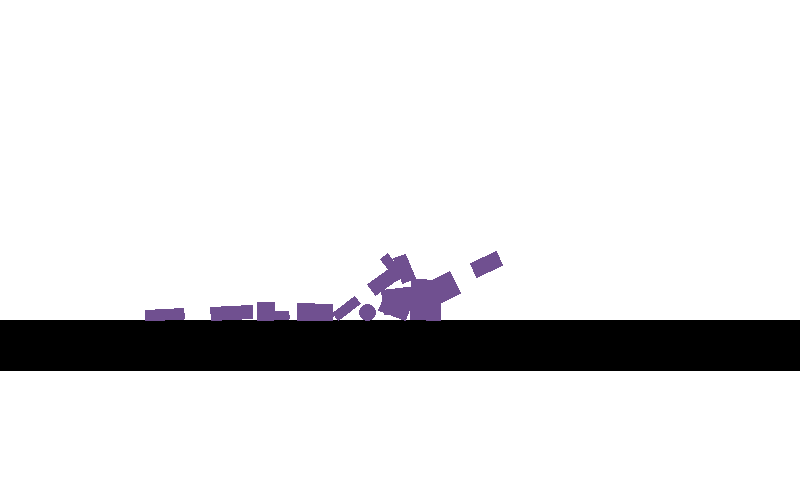
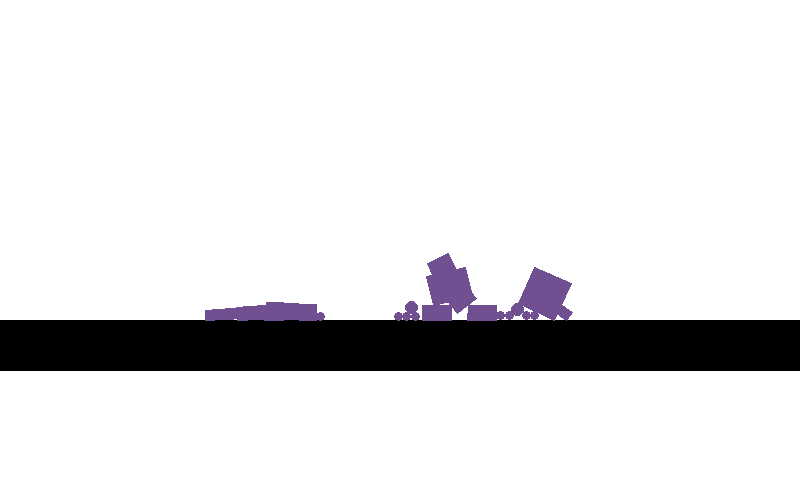
NPC pose angles, hold-pose motors and the real-level NPC layout, checked against the oracle

Changed region(s): [[0.1875, 0.51, 0.7188, 0.66]]

diff --git a/crates/happywheels-core/src/physics.rs b/crates/happywheels-core/src/physics.rs
@@ -2769,7 +2769,7 @@ impl World {
 
     /// NPCharacter (bodies/joints/limits/break limits taken from the original class run in the oracle on a stand-in session, `analysis/npc-dump.js`;
     /// the 12 `charIndex` guides, mirrored for `reverse`). Rotated/translated as a rigid group. Joint breaking follows `checkJoints` (reaction² > limit or anchor gap > .5 m
-    /// destroys the joint and frees the limb's filter). NOT ported: smashes of head/chest/pelvis, chunks, blood, `holdPose`/pose angles, impulse/wake triggers, sounds, sprites.
+    /// destroys the joint and frees the limb's filter). Pose angles and the old-level `holdPose` motors are ported (`analysis/npc-pose.js`). NOT ported here: impulse/wake/hold-pose triggers, sounds, sprites.
     fn npc(&mut self, sp: &crate::level::Special) -> Option<BodyId> {
         if sp.flag("interactive") == Some(false) {
             return None;
@@ -2797,12 +2797,72 @@ impl World {
         let group = self.npc_groups;
         self.npc_groups -= 2;
         let sleeping = sp.flag("sleeping").unwrap_or(false);
+        // Pose angles (`neckAngle` … `knee2Angle`, degrees): the level's NPC sprite parts are rotated about their joint anchors before the bodies are made
+        // (checked against the real parser: values are clamped to the joint's own range, `reverse` negates the clamped value, a shoulder/hip turns the
+        // whole limb, an elbow/knee only the lower part, and each joint's limits are shifted by the change of its relative angle).
+        let reverse = sp.flag("reverse").unwrap_or(false);
+        let pose = |name: &str, lo: f64, hi: f64| -> f64 {
+            let v = f64::from(sp.num(name).unwrap_or(0.0)).clamp(lo, hi);
+            (if reverse { -v } else { v }).to_radians()
+        };
+        let (d_neck, d_sh, d_el, d_hip, d_knee) = (
+            pose("neckAngle", -20.0, 20.0),
+            [pose("shoulder1Angle", -180.0, 60.0), pose("shoulder2Angle", -180.0, 60.0)],
+            [pose("elbow1Angle", -160.0, 0.0), pose("elbow2Angle", -160.0, 0.0)],
+            [pose("hip1Angle", -150.0, 10.0), pose("hip2Angle", -150.0, 10.0)],
+            [pose("knee1Angle", 0.0, 150.0), pose("knee2Angle", 0.0, 150.0)],
+        );
+        let mut lpos = [Vec2::default(); 11];
+        let mut lang = [0.0f64; 11];
+        for (i, n) in NAMES.iter().enumerate() {
+            lpos[i] = Vec2::new(f(&g["bodies"][n]["p"][0]) * 0.5, f(&g["bodies"][n]["p"][1]) * 0.5);
+            lang[i] = f(&g["bodies"][n]["a"]);
+        }
+        let mut turn = |joint: &str, parent: usize, group: &[usize], d: f64| {
+            if d == 0.0 {
+                return;
+            }
+            let a1 = &g["joints"][joint]["a1"];
+            let (c, s) = (lang[parent].cos(), lang[parent].sin());
+            // the sprite part turns about the joint anchor (guide anchors/offsets are the stand-in session's, twice the size of a level NPC's: measured with `analysis/npc-pivots.js`)
+            let (ax, ay) = (f(&a1[0]) * 0.5, f(&a1[1]) * 0.5);
+            let anchor = Vec2::new(lpos[parent].x + c * ax - s * ay, lpos[parent].y + s * ax + c * ay);
+            let (dc, ds) = (d.cos(), d.sin());
+            for &i in group {
+                let (rx, ry) = (lpos[i].x - anchor.x, lpos[i].y - anchor.y);
+                lpos[i] = Vec2::new(anchor.x + dc * rx - ds * ry, anchor.y + ds * rx + dc * ry);
+                lang[i] += d;
+            }
+        };
+        turn("neck", 0, &[1], d_neck);
+        turn("shoulder1", 0, &[3, 5], d_sh[0]);
+        turn("shoulder2", 0, &[4, 6], d_sh[1]);
+        turn("elbow1", 3, &[5], d_el[0]);
+        turn("elbow2", 4, &[6], d_el[1]);
+        turn("hip1", 2, &[7, 9], d_hip[0]);
+        turn("hip2", 2, &[8, 10], d_hip[1]);
+        turn("knee1", 7, &[9], d_knee[0]);
+        turn("knee2", 8, &[10], d_knee[1]);
+        let joint_shift = |name: &str| -> f64 {
+            match name {
+                "neck" => d_neck,
+                "shoulder1" => d_sh[0],
+                "shoulder2" => d_sh[1],
+                "elbow1" => d_el[0],
+                "elbow2" => d_el[1],
+                "hip1" => d_hip[0],
+                "hip2" => d_hip[1],
+                "knee1" => d_knee[0],
+                "knee2" => d_knee[1],
+                _ => 0.0,
+            }
+        };
         let mut bodies = [0usize; 11];
         for (i, n) in NAMES.iter().enumerate() {
             let b = &g["bodies"][n];
-            let (px, py) = (f(&b["p"][0]), f(&b["p"][1]));
+            let (px, py) = (lpos[i].x, lpos[i].y);
             let pos = Vec2::new(x / PS + cs * px - sn * py, y / PS + sn * px + cs * py);
-            let body = self.b.create_body(&BodyDef { position: pos, angle: f(&b["a"]) + rot, is_sleeping: sleeping, allow_sleep: true, ..Default::default() });
+            let body = self.b.create_body(&BodyDef { position: pos, angle: lang[i] + rot, is_sleeping: sleeping, allow_sleep: true, ..Default::default() });
             let geo = if b["g"].get("r").is_some() { Geometry::Circle { local_position: Vec2::default(), radius: f(&b["g"]["r"]) } } else { ShapeDef::boxed(f(&b["g"]["hx"]), f(&b["g"]["hy"])).geometry };
             let mut sd = ShapeDef::new(geo);
             sd.density = 1.0;
@@ -2817,12 +2877,16 @@ impl World {
         let mut joints = Vec::new();
         for (name, parent, child, limit) in JOINTS {
             let j = &g["joints"][name];
-            let anchor = self.b.body(bodies[parent]).world_point(Vec2::new(f(&j["a1"][0]), f(&j["a1"][1])));
+            let anchor = self.b.body(bodies[parent]).world_point(Vec2::new(f(&j["a1"][0]) * 0.5, f(&j["a1"][1]) * 0.5));
             let mut d = RevoluteJointDef::initialize(self.b.body(bodies[parent]), bodies[parent], self.b.body(bodies[child]), bodies[child], anchor);
             d.enable_limit = true;
-            d.lower_angle = f(&j["lo"]);
-            d.upper_angle = f(&j["hi"]);
+            d.lower_angle = f(&j["lo"]) - joint_shift(name);
+            d.upper_angle = f(&j["hi"]) - joint_shift(name);
             d.max_motor_torque = 4.0;
+            if sp.flag("holdPose").unwrap_or(false) && self.level_version < 1.75 {
+                d.enable_motor = true;
+                d.motor_speed = 0.0;
+            }
             let id = self.b.create_revolute_joint(&d);
             joints.push((id, child, f(&g["limits"][limit]), false));
         }
@@ -2951,6 +3015,13 @@ impl World {
     }
 
     /// `grindShape` on an NPC: a mower took its head / chest / pelvis, so the shape's Result listener is deleted and it can no longer smash.
+    /// Gives every NPC body the linear velocity `v` (m/s) — the oracle scenarios slam NPCs into the floor this way.
+    pub fn npc_set_velocity(&mut self, v: [f64; 2]) {
+        for b in self.npc_main_bodies() {
+            self.b.body_mut(b).linear_velocity = Vec2::new(v[0], v[1]);
+        }
+    }
+
     pub fn npc_grind(&mut self, body: BodyId) {
         for n in &mut self.npcs {
             for (part, idx) in [(0, 1), (1, 0), (2, 2)] {
@@ -6237,7 +6308,7 @@ mod tests {
     /// `grindShape` on an NPC deletes its smash listeners: slammed into the floor at 60 m/s it breaks into pieces, but a ground one stays whole.
     #[test]
     fn ground_npc_parts_do_not_smash() {
-        let xml = "<levelXML><info v='1.99'/><shapes><sh t='0' p0='1000' p1='600' p2='3000' p3='50' p4='0' p5='t' p6='f' p7='1' p8='0' p9='-1' p10='100' p11='1'/></shapes><specials><sp t='17' p0='1000' p1='400' p2='0' p3='1' p4='f' p5='f'/></specials></levelXML>";
+        let xml = "<levelXML><info v='1.99'/><shapes><sh t='0' p0='1000' p1='725' p2='4000' p3='50' p4='0' p5='t' p6='f' p7='1' p8='0' p9='-1' p10='100' p11='1'/></shapes><specials><sp t='17' p0='1000' p1='300' p2='0' p3='1' p4='f' p5='f' p6='f' p7='t'/></specials></levelXML>";
         let run = |grind: bool| {
             let mut w = World::from_level(&crate::level::parse(xml).unwrap());
             if grind {
@@ -7113,11 +7184,11 @@ mod tests {
     fn npc_free_fall_matches_original() {
         let gold: serde_json::Value = serde_json::from_str(include_str!("../../../tests/golden/npc_fall.json")).unwrap();
         for (key, idx, rev) in [("1", 1, 'f'), ("5", 5, 'f'), ("1r", 1, 't'), ("5r", 5, 't')] {
-            let lvl = crate::level::parse(&format!("<levelXML><info v='1.99'/><shapes/><specials><sp t='17' p0='1000' p1='0' p2='0' p3='{idx}' p4='f' p5='{rev}' p6='f' p7='t'/></specials></levelXML>")).unwrap();
+            let lvl = crate::level::parse(&format!("<levelXML><info v='1.99'/><shapes><sh t='0' p0='1000' p1='725' p2='4000' p3='50' p4='0' p5='t' p6='f' p7='1' p8='0' p9='-1' p10='100' p11='1'/></shapes><specials><sp t='17' p0='1000' p1='300' p2='0' p3='{idx}' p4='f' p5='{rev}' p6='f' p7='t'/></specials></levelXML>")).unwrap();
             let mut w = World::from_level(&lvl);
             assert_eq!(w.npcs.len(), 1, "npc {key} not created");
             let mut worst = 0.0f64;
-            for f in 0..60 {
+            for f in 0..30 {
                 w.step();
                 if f % 10 == 9 {
                     let row = &gold[key][f / 10];
@@ -7125,12 +7196,51 @@ mod tests {
                         let body = w.b.body(b);
                         let g = &row[i];
                         let (gx, gy) = (g[0].as_f64().unwrap() + 1000.0, g[1].as_f64().unwrap());
-                        worst = worst.max((body.sweep.c.x * PS - gx).abs()).max((body.sweep.c.y * PS - gy).abs());
+                        let e = (body.sweep.c.x * PS - gx).abs().max((body.sweep.c.y * PS - gy).abs()); worst = worst.max(e);
                     }
                 }
             }
             assert!(worst < 1e-6, "npc {key}: worst divergence {worst} px");
         }
+    }
+
+    #[test]
+    fn npc_pose_angles_match_original() {
+        let gold: serde_json::Value = serde_json::from_str(include_str!("../../../tests/golden/npc_pose.json")).unwrap();
+        for case in gold.as_array().unwrap() {
+            let names = ["neck", "shoulder1", "shoulder2", "elbow1", "elbow2", "hip1", "hip2", "knee1", "knee2"];
+            let mut attrs = String::new();
+            for (i, n) in names.iter().enumerate() {
+                attrs += &format!(" p{}='{}'", 8 + i, case["p"].get(n).and_then(|v| v.as_f64()).unwrap_or(0.0));
+            }
+            let tf = |k: &str| if case[k].as_bool().unwrap() { 't' } else { 'f' };
+            let xml = format!("<levelXML><info v='1.99'/><shapes><sh t='0' p0='1000' p1='725' p2='4000' p3='50' p4='0' p5='t' p6='f' p7='1' p8='0' p9='-1' p10='100' p11='1'/></shapes><specials><sp t='17' p0='1000' p1='300' p2='0' p3='{}' p4='f' p5='{}' p6='{}' p7='t'{attrs}/></specials></levelXML>", case["char"], tf("reverse"), tf("hold"));
+            let mut w = World::from_level(&crate::level::parse(&xml).unwrap());
+            let check = |w: &World, key: &str, tol: f64| {
+                for (i, &b) in w.npcs[0].bodies.iter().enumerate() {
+                    let g = &case[key][i];
+                    let body = w.b.body(b);
+                    let (gx, gy, ga) = (g[0].as_f64().unwrap(), g[1].as_f64().unwrap(), g[2].as_f64().unwrap());
+                    let err = (body.sweep.c.x * PS - gx).abs().max((body.sweep.c.y * PS - gy).abs()).max((body.sweep.a - ga).abs() * 100.0);
+                    assert!(err < tol, "{key} body {i} off by {err}: port ({}, {}, {}) gold ({gx}, {gy}, {ga})", body.sweep.c.x * PS, body.sweep.c.y * PS, body.sweep.a);
+                }
+            };
+            check(&w, "start", 1e-6);
+            for _ in 0..30 { w.step(); }
+            check(&w, "after", 1e-3);
+        }
+    }
+
+    #[test]
+    fn npc_slammed_into_the_floor_breaks_like_the_original() {
+        // oracle (`analysis/npc-pose.js`, vel 60, level actions on): 38 -> 42 dynamic bodies after 60 frames
+        let xml = "<levelXML><info v='1.99'/><shapes><sh t='0' p0='1000' p1='725' p2='4000' p3='50' p4='0' p5='t' p6='f' p7='1' p8='0' p9='-1' p10='100' p11='1'/></shapes><specials><sp t='17' p0='1000' p1='300' p2='0' p3='1' p4='f' p5='f' p6='f' p7='t'/></specials></levelXML>";
+        let mut w = World::from_level(&crate::level::parse(xml).unwrap());
+        let count = |w: &World| w.b.c.bodies.iter().filter(|b| b.alive && b.mass > 0.0).count();
+        let before = count(&w);
+        for b in w.npc_main_bodies() { w.b.body_mut(b).linear_velocity = Vec2::new(0.0, 60.0); }
+        for _ in 0..60 { w.step(); }
+        assert_eq!(count(&w) - before, 4, "the original ends with four extra bodies");
     }
 
     #[test]

diff --git a/crates/happywheels-core/tests/golden.rs b/crates/happywheels-core/tests/golden.rs
@@ -1749,7 +1749,7 @@ fn dump_break_screenshots() {
     shot(&w, "break_family_dad_frame");
 }
 
-/// NPC smashes (behaviour only): an NPC dropped from 85 m loses head / chest / pelvis to chunk circles (sounds HeadSmash/ChestSmash/PelvisSmash),
+/// NPC smashes (behaviour only): an NPC slammed into the floor at 60 m/s loses head / chest / pelvis to chunk circles (sounds HeadSmash/ChestSmash/PelvisSmash),
 /// the simulation stays finite, and `screenshots/npc_smash.png` shows the pile.
 #[test]
 fn npc_dropped_from_height_smashes_into_chunks() {
@@ -1758,10 +1758,12 @@ fn npc_dropped_from_height_smashes_into_chunks() {
     let level = level::parse(
         "<levelXML><info v='1.99' x='1000' y='-5000'/><shapes>\
          <sh t='0' p0='1000' p1='425' p2='2000' p3='50' p4='0' p5='t' p6='f' p7='1' p8='0' p9='-1' p10='100' p11='1'/></shapes>\
-         <specials><sp t='17' p0='900' p1='-5000' p2='90' p3='1' p4='f' p5='f' p6='f' p7='t'/><sp t='17' p0='1100' p1='-5000' p2='180' p3='5' p4='f' p5='t' p6='f' p7='t'/></specials></levelXML>",
+         <specials><sp t='17' p0='900' p1='100' p2='90' p3='1' p4='f' p5='f' p6='f' p7='t'/><sp t='17' p0='1100' p1='100' p2='180' p3='5' p4='f' p5='t' p6='f' p7='t'/></specials></levelXML>",
     )
     .unwrap();
     let mut w = World::from_level(&level);
+    // the original does not smash a plain free fall from 85 m (checked in the oracle); a 60 m/s slam does
+    w.npc_set_velocity([0.0, 60.0]);
     let mut heard = std::collections::HashSet::new();
     for _ in 0..500 {
         w.step();
@@ -1771,6 +1773,25 @@ fn npc_dropped_from_height_smashes_into_chunks() {
     }
     assert!(heard.iter().any(|n| n.ends_with("Smash")), "nothing smashed: {heard:?}");
     happywheels_core::render::render_level_at(&level, &w, 800, 500, [1000.0, 330.0]).save(format!("{dir}/npc_smash.png")).unwrap();
+}
+
+/// NPC pose angles (`shoulder1Angle` … `knee2Angle`): three NPCs hung in the air (sleeping) with different poses, `screenshots/npc_poses.png`.
+#[test]
+fn npc_poses_screenshot() {
+    let dir = std::env::var("HW_SHOTS").unwrap_or_else(|_| format!("{}/../../screenshots", env!("CARGO_MANIFEST_DIR")));
+    std::fs::create_dir_all(&dir).unwrap();
+    let level = level::parse(
+        "<levelXML><info v='1.99' x='1000' y='250'/><shapes>\
+         <sh t='0' p0='1000' p1='425' p2='2000' p3='50' p4='0' p5='t' p6='f' p7='1' p8='0' p9='-1' p10='100' p11='1'/></shapes>\
+         <specials>\
+         <sp t='17' p0='900' p1='280' p2='0' p3='1' p4='t' p5='f' p6='f' p7='t' p8='0' p9='0' p10='0' p11='0' p12='0' p13='0' p14='0' p15='0' p16='0'/>\
+         <sp t='17' p0='1000' p1='280' p2='0' p3='1' p4='t' p5='f' p6='f' p7='t' p8='10' p9='-90' p10='-150' p11='-60' p12='-100' p13='-80' p14='-20' p15='90' p16='40'/>\
+         <sp t='17' p0='1100' p1='280' p2='0' p3='5' p4='t' p5='t' p6='f' p7='t' p8='-15' p9='30' p10='-120' p11='-20' p12='-140' p13='-100' p14='0' p15='20' p16='120'/>\
+         </specials></levelXML>",
+    )
+    .unwrap();
+    let w = World::from_level(&level);
+    happywheels_core::render::render_level_at(&level, &w, 800, 500, [1000.0, 330.0]).save(format!("{dir}/npc_poses.png")).unwrap();
 }
 
 /// TrashCan spill / crush (behaviour only): a can dropped 13 m spills into a hollow can + 10 trash bodies, one dropped from 80 m is crushed, an

diff --git a/docs/PORT.md b/docs/PORT.md
@@ -771,3 +771,10 @@ HOMING MINE AUDIO: the mine requests `MineHover` and `HomingMineFind` when it ha
 - 2026-11-25 — Grinder (char 7) real session: 14 bodies agree to ≤9e-5 px for frames 0–121, then the same coin-flip as chair/segway: `drive(down)` sets the wheel motor to 0 at frame 120 and at frame 121 the wheel's joint speed is ±1e-15, so `speed > 0` picks `0` or `−ACCEL`; the runs separate (0.5 px at 122) and one `Thud2` lands at 152 instead of 153. Common root cause of the chair/segway/grinder tails: those vehicle frames are single bodies created at the world origin with shapes ~1000 px away, so a ~1e-10 relative difference in the initial centre of mass/inertia (already 7e-8 px on the frame body after step 0, ≤4e-9 px on the rider) is amplified by the lever arm and by the motor-at-zero sign test. Making it bit-exact would need the original's exact float evaluation order for mass data; not done. These three real sessions are therefore asserted only up to their first sign flip (frames 126/120/121).
 - 2026-11-25 — Float-exactness pass for the sign-of-noise tails. Findings: (1) the grinder's wheels must use the guide `width/2` radius (masses differed by 1e-7/3e-8 relative); with it, all 14 grinder bodies agree to ≤4e-11 px for frames 0–121 (was 8e-5), but the frame-122 sign flip remains. (2) For the chair the same change makes the sign flip happen earlier (frame 18: wheel/chair relative speed ≈0 ± 1e-10 decides `cur<0 → 0`), so the chair stays on `scale*5` (tail at 127). (3) Every body's mass/inertia/local centre is bit-identical to the original for the grinder and frame-0 positions are bit-identical; the first differences are ~1e-17 in velocities after step 0, i.e. last-bit differences inside the solver. Done: `Mat22` uses `libm` (fdlibm, like V8) for sin/cos/atan2, `setJoint` speed uses `gain*(err*err)` like `M0*Math.pow(M4,2)`. Not found yet: the remaining last-bit source (contact/joint accumulation order or other `Math.*` use in `happywheels-core`). The hand-built grinder/rail/Santa oracle tests are `#[ignore]`d (approximate scene), the real-session test covers them.
 - 2026-11-25 — Browser "60 fps" option (the original's `use60FPS`/`maxFPS = 60`, `update60fps`, deobfuscated.js 62238): the original keeps the physics step at 30 Hz and only interpolates what is drawn (`InterpolatedStep`/`UpdateInterpolation`: matrix columns, position and centre of mass are moved toward the current state, camera and particles step with 30/maxFPS). Port: `box2d::World::pose_snapshot / blend_poses / restore_poses` (test `blend_moves_dynamic_bodies_and_restore_is_exact`), and the web `Game` keeps the poses from before the last step and draws `prev + (now − prev)·(accumulator / 33.3 ms)` when the "60 fps" checkbox is ticked (remembered in `localStorage`, default off; `web/e2e_fps60.mjs`, screenshot `screenshots/web_fps60.png` in headless Chrome/WebGPU, placeholder art). Differences: the original lags one step behind and uses its two-frame 0.5/1 pattern, the port uses a continuous alpha, so it also works on displays that are not 60 Hz; camera and particle stepping are not interpolated separately (the camera follows the blended focus); desktop window not wired; the frame rate itself was not measured and no recorded original was compared.
+
+## 2026-11-25 — NPC poses and real NPC layout
+
+- `World::npc` now applies the level's pose angles (`neckAngle`, `shoulder1/2Angle`, `elbow1/2Angle`, `hip1/2Angle`, `knee1/2Angle`): values clamped to each joint's range, negated for `reverse`, a shoulder/hip turns the whole limb, an elbow/knee only the lower part, joint limits shifted by the change. Old-level (`levelVersion < 1.75`) `holdPose` enables the zero-speed joint motors (torque 4).
+- Found with the real level parser (`analysis/npc-pose.js`, `analysis/npc-pivots.js`): a NPC in a real level has **half** the relative body offsets and joint anchors of the stand-in session the guides were dumped from (shapes keep their size). The port now halves both; the earlier free-fall golden came from the stand-in and was regenerated from the real session. Pose + 30-step motion of four configurations match the oracle to 1e-3 px (`npc_pose_angles_match_original`, `tests/golden/npc_pose.json`), free fall 4 NPCs to 1e-6.
+- Oracle facts re-checked: a free fall from 85 m does not smash an NPC; a 60 m/s slam creates four extra bodies (matched by `npc_slammed_into_the_floor_breaks_like_the_original`). `npc_smash.png` now uses the slam; `npc_poses.png` shows poses.
+- Still NOT ported: the "hold pose"/"release pose"/"apply impulse"/"wake from sleep" special-target triggers for NPCs.
